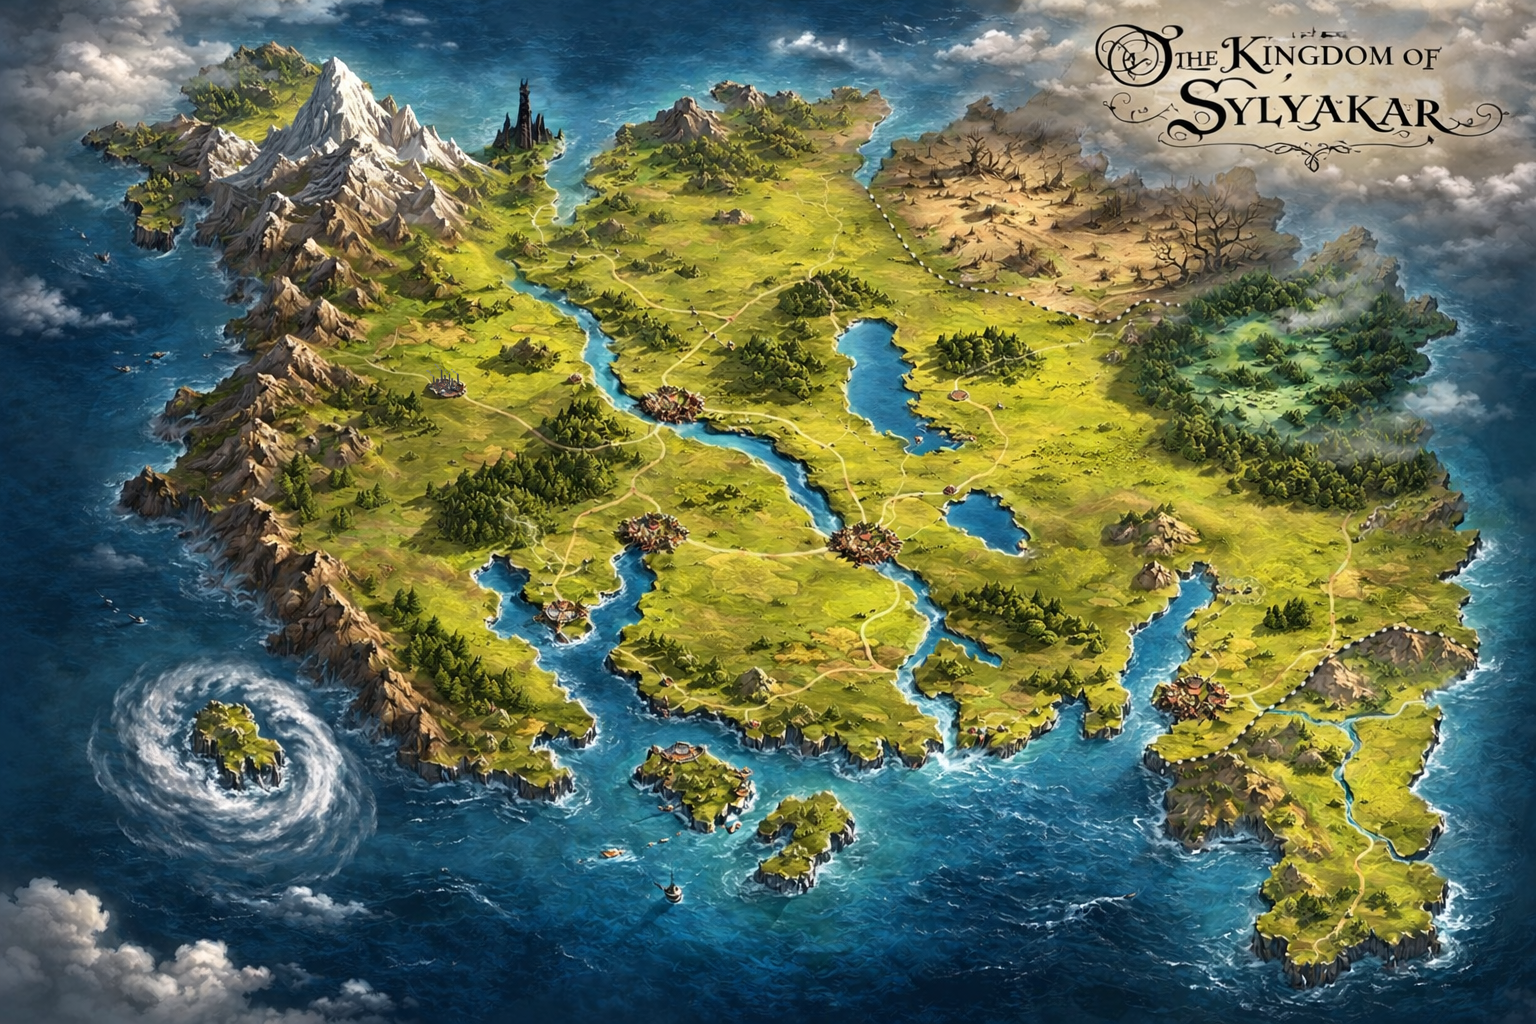
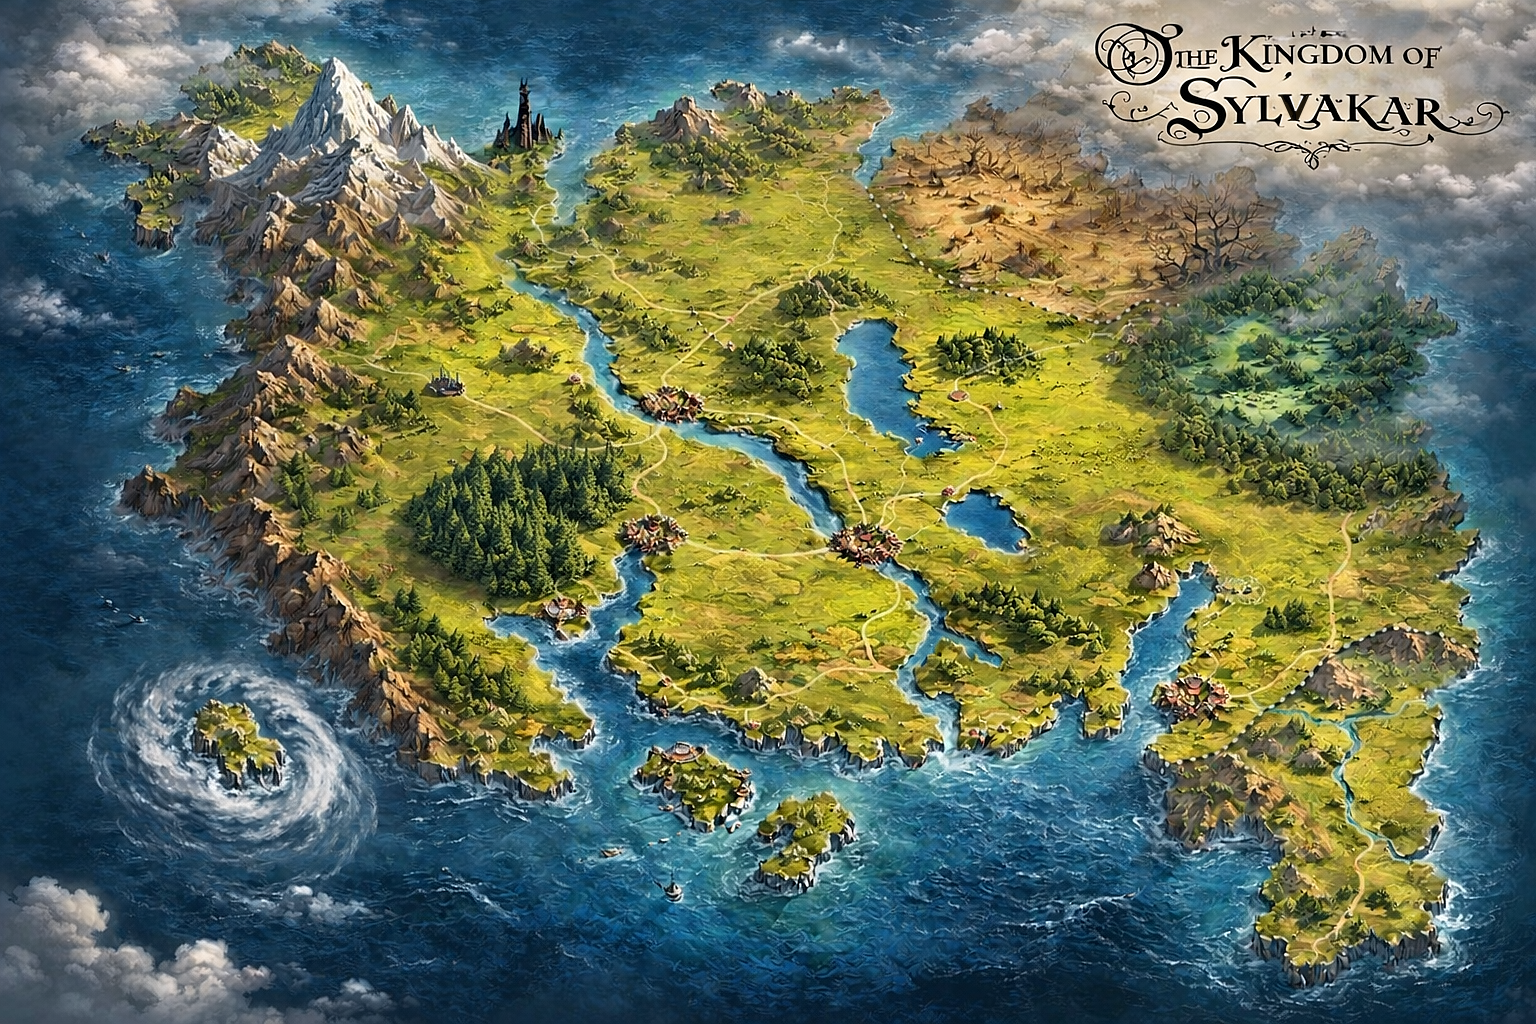
Updated locations

diff --git a/index.html b/index.html
@@ -358,85 +358,85 @@
         "name": "Dynamo",
         "category": "Cities",
         "description": "Currently the biggest clank manufacturing city. Produces both clanks and goods (ie weapons, armor, trinkets, bobbles, clothes, you name it.)",
-        "x": 479,
-        "y": 446
+        "x": 445,
+        "y": 385
       },
       {
         "name": "Vinod",
         "category": "Cities",
         "description": "Sanskrit for pleasure, happiness, diversion. Contains the largest legal brothel in the kingdom of Sylvakar, the Blooming Flower. Legal prostitution is the city's main form of economic growth, making it a very prosperous city. The owner of the largest brothel is essentially the lord over the city. Her name is Madame Resplenda. The city guard under the direct control of Madame Resplenda officially known as the Vinodi Guard are known more commonly by the locals as the \"Rose Buds\". There are other brothels besides the main one (none come close to comparing in size), but all others must be registered and pay additional \"taxes\" which go to the \"city\". The required registration has limits on size, services, etc, which ensures the Blooming Flower remains the largest and most profitable brothel. Lots of tourism due to the high demand service they provide. Located in a warmer region of the kingdom, allowing for prostitutes to comfortably display their wares year round.",
-        "x": 1110,
-        "y": 782
+        "x": 1191,
+        "y": 696
       },
       {
         "name": "To'Wrath",
         "category": "Cities",
         "description": "Stands for The Ones Who Remember All Their History. It is a lost city located somewhere in the Nether, though its exact location or its status are unknown. It is the first machine (clank city). At one point the clanks there had ascended past all known technology, and then they had vanished.",
-        "x": 1012,
-        "y": 255
+        "x": 976,
+        "y": 165
       },
       {
         "name": "Serenity",
         "category": "Cities",
         "description": "Known Faun city, considered a safe haven for the race and others that have seen persecution and prejudice from humanoids. Nestled amongst a massive outcropping of a sablewood forest.",
-        "x": 564,
-        "y": 702
+        "x": 566,
+        "y": 611
       },
       {
         "name": "Sanji",
         "category": "Cities",
         "description": "Smaller, quiet, peaceful farming town. Known for its premium quality of herbs and spice ingredients. Almost the whole town is involved in the farming process in some way. The town has a secret fighting school they have been able to hide from the rest of the world for centuries. Citizenship in the town is strict, under the guise of the town having farming trade secrets, but in reality it's to prevent the world from finding out about the secret fighting school. Every citizen eventually undergoes 3 years of training at the secret fighting school. The fighting style focuses on hand to hand combat designed to deescalate conflict in a nonlethal form (disarm, disable). There is training with various weapon types but the primary focus is hand to hand. Little authority presence due to every citizen's discipline and ability to deescalate.",
-        "x": 835,
-        "y": 620
+        "x": 864,
+        "y": 542
       },
       {
         "name": "Currington",
         "category": "Cities",
         "description": "Due to its well protected ports to and from the Aspien Sea, It is the biggest trade hub in the Kingdom of Sylvakar. Home to the Bards Guild and associated tavern, The Song Bird, The biggest in the kingdom. Due to its close proximity to Sanji, the city's brewmasters contract growers of Sanji to grow their hops and other spices for them. Known for brewing and distilling the best ales and liquors in the kingdom.",
-        "x": 634,
-        "y": 592
+        "x": 651,
+        "y": 535
       },
       {
         "name": "To'Acar",
         "category": "Cities",
         "description": "Home to a quiet hunting town with a few very small vegetable farms. Not known for much other than it's the home to the Galapas Ra'p and Rigs (brothers, of course) and Brother Fatus and his renowned steamed game dumplings. This was the start of our adventure. The players came from the town of Sanji with medicinal supplies, herbs that can't and aren't grown in To'Acar.",
-        "x": 887,
-        "y": 678
+        "x": 980,
+        "y": 607
       },
       {
         "name": "Lesbos",
         "category": "Settlements",
         "description": "The isle of Lesbos is located just off the southern shores of the mainland. No men are allowed within the settlement limits. Must be female. It is unknown what happens to men that are brave enough to enter the settlement.",
-        "x": 676,
-        "y": 845
+        "x": 695,
+        "y": 776
       },
       {
         "name": "UNAMED",
         "category": "Settlements",
         "description": "(No description provided.)",
-        "x": 250,
-        "y": 270
+        "x": 169,
+        "y": 172
       },
       {
         "name": "The Isle",
         "category": "Points Of Interest",
         "description": "Due to a perpetual storm that surrounds the island, it is inaccessible to ships, and obfuscates the view of the island when looking through a telescope. It is unknown what is causing this storm or if the island is habitable. But that doesn't stop people from trying.",
-        "x": 339,
-        "y": 814
+        "x": 236,
+        "y": 731
       },
       {
         "name": "Farrendel Tower",
         "category": "Points Of Interest",
         "description": "Massive tower located on the northern coast of the Aspien Sea. Local rumors are that there is something mystical and powerful atop of the tower, though no one has ever made it. People are terrified to even approach the tower. Lately there has been a higher number of military guardsmen around the tower, more than normal. Unlike other towers and light houses in the kingdom, Farrendel Tower is made from a strange black elderglass. A material not seen anywhere else in the kingdom.",
-        "x": 580,
-        "y": 183
+        "x": 523,
+        "y": 132
       },
       {
         "name": "The Black Marsh",
         "category": "Points Of Interest",
         "description": "(Denoted by the squiggle circle on the map.) Not much is known about the Black Marsh. What is known is that it contains HIGHLY sought after bogwood, which is some of the most sought after in the kingdom. This is due to the fact that it makes the finest magical staffs, bows, and handles for axes and swords the known world has ever known. Due to the properties of the marsh, it makes staffs highly resistant to magical backfires and stresses. It allows bows to be incredibly strong and lethal while maintaining low draw weights, making firing faster and less fatiguing. No one is sure how much bogwood is left and it's been almost impossible to get within the last century. Many have tried, and many have died. Magic doesn't seem to work when trying to retrieve it.",
-        "x": 1246,
-        "y": 431
+        "x": 1267,
+        "y": 365
       },
       {
         "name": "The Western Reaches and The Halo",
@@ -444,32 +444,20 @@
         "description": "The Western Reaches is a massive mountain ridge spanning almost the entire western coast of Sylvakar. Elevation varies but towards the north of the ridge and spanning inland is The Halo. A series of peaks that ascend to the highest point on the island. It is said that the tallest peak is so high that it is possible to commune with the gods, hence the name God's Grasp.",
         "points": [
           [
-            519,
-            301
+            185,
+            127
           ],
           [
-            318,
-            293
+            351,
+            174
           ],
           [
-            263,
-            150
+            228,
+            481
           ],
           [
-            348,
-            394
-          ],
-          [
-            298,
-            587
-          ],
-          [
-            366,
-            725
-          ],
-          [
-            464,
-            823
+            425,
+            732
           ]
         ],
         "x": 0,
@@ -479,20 +467,38 @@
         "name": "The Nether (- - - border)",
         "category": "Other Places of Note",
         "description": "Located to the North East on the island is The Nether. Essentially a no go zone, it is the equivalent to the Bermuda Triangle. Magic doesn't behave properly there. Technology doesn't behave properly there. It drives immeasurable fear into the hearts of all the denizens of the island and, as a consequence, people do not go anywhere near it. There is no need for signs or fences, as it is clearly barren and blighted forming a natural border between the two ecological zones. Nestled somewhere within the Nether is To'Wrath, the first clank city. Its exact location is unknown and lost to time.",
-        "x": 0,
-        "y": 0
+        "x": 1045,
+        "y": 217
       },
       {
         "name": "Lake Destined",
         "category": "Other Places of Note",
         "description": "Lake Destined (pronounced dest-eend) is the largest inland lake on the continent. Said to have an island somewhere in its waters. Though there is no official record or historical documentation of any islands in the lake or any magical features about the lake. But when people sail the lake they often go missing for days, then are eventually found somewhere on shore. Those who return (not all do, but most do) appear healthy but seem off to those that know them. Close friends and loved ones say the person's personality has changed, making them just generally complacent. They don't remember certain things that they should about their past, and when reminded they pretend they simply forgot (especially with what happened on the lake, no recollection there from anyone). Some loved ones have said they've found their returned just standing by a window, looking out and mumbling to themselves, sometimes for hours until they are disrupted by someone. Some have been severely injured/wounded well after the event and don't seem to register the pain as a normal person would (some claim their returned didn't even notice they were hurt until someone pointed it out). Anyone looking directly into the eyes of a returned say they almost get a feeling of nausea, and can't hold the void filled stare for long.",
-        "x": 0,
-        "y": 0
+        "x": 882,
+        "y": 390
       },
       {
         "name": "The Andel Line (··· border)",
         "category": "Other Places of Note",
         "description": "The Andel Line is located to the south east of the island and represents a temporary border between two of the wealthiest and most influential noble families (besides the King's) locked in conflict. Though mostly a cold conflict and fraught with standoffs, it has on occasion erupted in full on wars between the two families. While formidable forces on their own, they are no match for the Crown's forces, which regularly have to do a show of force to calm the temperatures while negotiations can be held until the next inevitable flare up. The Emberlanes, led by Rogan Emberlane, believe the Blackreeds have taken their ancestral grounds awarded to them by the first king of Sylvakar, Etrin the Guileful. The Blackreeds headed by Evlyn Blackreed maintain that the Blackreeds predate them by centuries and that it has been their lands all along. Some of the population in the surrounding area believe that this isn't really about ancestral grounds, but stemmed from a lovers quarrel, which caused the Emberlanes to break from the Blackreeds.",
+        "points": [
+          [
+            1166,
+            770
+          ],
+          [
+            1236,
+            743
+          ],
+          [
+            1384,
+            629
+          ],
+          [
+            1475,
+            652
+          ]
+        ],
         "x": 0,
         "y": 0
       }

diff --git a/locations.md b/locations.md
@@ -17,37 +17,37 @@ Positions are **pixel coordinates** from the map image (same as opening Map.png 
 ## Cities (⭘)
 
 ### Dynamo
-Position: 479, 446
+Position: 445, 385
 
 Currently the biggest clank manufacturing city. Produces both clanks and goods (ie weapons, armor, trinkets, bobbles, clothes, you name it.)
 
 ### Vinod
-Position: 1110, 782
+Position: 1191, 696
 
 Sanskrit for pleasure, happiness, diversion. Contains the largest legal brothel in the kingdom of Sylvakar, the Blooming Flower. Legal prostitution is the city's main form of economic growth, making it a very prosperous city. The owner of the largest brothel is essentially the lord over the city. Her name is Madame Resplenda. The city guard under the direct control of Madame Resplenda officially known as the Vinodi Guard are known more commonly by the locals as the "Rose Buds". There are other brothels besides the main one (none come close to comparing in size), but all others must be registered and pay additional "taxes" which go to the "city". The required registration has limits on size, services, etc, which ensures the Blooming Flower remains the largest and most profitable brothel. Lots of tourism due to the high demand service they provide. Located in a warmer region of the kingdom, allowing for prostitutes to comfortably display their wares year round.
 
 ### To'Wrath
-Position: 1012, 255
+Position: 976, 165
 
 Stands for The Ones Who Remember All Their History. It is a lost city located somewhere in the Nether, though its exact location or its status are unknown. It is the first machine (clank city). At one point the clanks there had ascended past all known technology, and then they had vanished.
 
 ### Serenity
-Position: 564, 702
+Position: 566, 611
 
 Known Faun city, considered a safe haven for the race and others that have seen persecution and prejudice from humanoids. Nestled amongst a massive outcropping of a sablewood forest.
 
 ### Sanji
-Position: 835, 620
+Position: 864, 542
 
 Smaller, quiet, peaceful farming town. Known for its premium quality of herbs and spice ingredients. Almost the whole town is involved in the farming process in some way. The town has a secret fighting school they have been able to hide from the rest of the world for centuries. Citizenship in the town is strict, under the guise of the town having farming trade secrets, but in reality it's to prevent the world from finding out about the secret fighting school. Every citizen eventually undergoes 3 years of training at the secret fighting school. The fighting style focuses on hand to hand combat designed to deescalate conflict in a nonlethal form (disarm, disable). There is training with various weapon types but the primary focus is hand to hand. Little authority presence due to every citizen's discipline and ability to deescalate.
 
 ### Currington
-Position: 634, 592
+Position: 651, 535
 
 Due to its well protected ports to and from the Aspien Sea, It is the biggest trade hub in the Kingdom of Sylvakar. Home to the Bards Guild and associated tavern, The Song Bird, The biggest in the kingdom. Due to its close proximity to Sanji, the city's brewmasters contract growers of Sanji to grow their hops and other spices for them. Known for brewing and distilling the best ales and liquors in the kingdom.
 
 ### To'Acar
-Position: 887, 678
+Position: 980, 607
 
 Home to a quiet hunting town with a few very small vegetable farms. Not known for much other than it's the home to the Galapas Ra'p and Rigs (brothers, of course) and Brother Fatus and his renowned steamed game dumplings. This was the start of our adventure. The players came from the town of Sanji with medicinal supplies, herbs that can't and aren't grown in To'Acar.
 
@@ -56,12 +56,12 @@ Home to a quiet hunting town with a few very small vegetable farms. Not known fo
 ## Settlements (🛡)
 
 ### Lesbos
-Position: 676, 845
+Position: 695, 776
 
 The isle of Lesbos is located just off the southern shores of the mainland. No men are allowed within the settlement limits. Must be female. It is unknown what happens to men that are brave enough to enter the settlement.
 
 ### UNAMED
-Position: 250, 270
+Position: 169, 172
 
 (No description provided.)
 
@@ -70,17 +70,17 @@ Position: 250, 270
 ## Points Of Interest (♡)
 
 ### The Isle
-Position: 339, 814
+Position: 236, 731
 
 Due to a perpetual storm that surrounds the island, it is inaccessible to ships, and obfuscates the view of the island when looking through a telescope. It is unknown what is causing this storm or if the island is habitable. But that doesn't stop people from trying.
 
 ### Farrendel Tower
-Position: 580, 183
+Position: 523, 132
 
 Massive tower located on the northern coast of the Aspien Sea. Local rumors are that there is something mystical and powerful atop of the tower, though no one has ever made it. People are terrified to even approach the tower. Lately there has been a higher number of military guardsmen around the tower, more than normal. Unlike other towers and light houses in the kingdom, Farrendel Tower is made from a strange black elderglass. A material not seen anywhere else in the kingdom.
 
 ### The Black Marsh
-Position: 1246, 431
+Position: 1267, 365
 
 (Denoted by the squiggle circle on the map.) Not much is known about the Black Marsh. What is known is that it contains HIGHLY sought after bogwood, which is some of the most sought after in the kingdom. This is due to the fact that it makes the finest magical staffs, bows, and handles for axes and swords the known world has ever known. Due to the properties of the marsh, it makes staffs highly resistant to magical backfires and stresses. It allows bows to be incredibly strong and lethal while maintaining low draw weights, making firing faster and less fatiguing. No one is sure how much bogwood is left and it's been almost impossible to get within the last century. Many have tried, and many have died. Magic doesn't seem to work when trying to retrieve it.
 
@@ -89,27 +89,27 @@ Position: 1246, 431
 ## Other Places of Note
 
 ### The Western Reaches and The Halo
-Position: 519, 301
-Position: 318, 293
-Position: 263, 150
-Position: 348, 394
-Position: 298, 587
-Position: 366, 725
-Position: 464, 823
+Position: 185, 127
+Position: 351, 174
+Position: 228, 481
+Position: 425, 732
 
 The Western Reaches is a massive mountain ridge spanning almost the entire western coast of Sylvakar. Elevation varies but towards the north of the ridge and spanning inland is The Halo. A series of peaks that ascend to the highest point on the island. It is said that the tallest peak is so high that it is possible to commune with the gods, hence the name God's Grasp.
 
 ### The Nether (- - - border)
-Position: 0, 0
+Position: 1045, 217
 
 Located to the North East on the island is The Nether. Essentially a no go zone, it is the equivalent to the Bermuda Triangle. Magic doesn't behave properly there. Technology doesn't behave properly there. It drives immeasurable fear into the hearts of all the denizens of the island and, as a consequence, people do not go anywhere near it. There is no need for signs or fences, as it is clearly barren and blighted forming a natural border between the two ecological zones. Nestled somewhere within the Nether is To'Wrath, the first clank city. Its exact location is unknown and lost to time.
 
 ### Lake Destined
-Position: 0, 0
+Position: 882, 390
 
 Lake Destined (pronounced dest-eend) is the largest inland lake on the continent. Said to have an island somewhere in its waters. Though there is no official record or historical documentation of any islands in the lake or any magical features about the lake. But when people sail the lake they often go missing for days, then are eventually found somewhere on shore. Those who return (not all do, but most do) appear healthy but seem off to those that know them. Close friends and loved ones say the person's personality has changed, making them just generally complacent. They don't remember certain things that they should about their past, and when reminded they pretend they simply forgot (especially with what happened on the lake, no recollection there from anyone). Some loved ones have said they've found their returned just standing by a window, looking out and mumbling to themselves, sometimes for hours until they are disrupted by someone. Some have been severely injured/wounded well after the event and don't seem to register the pain as a normal person would (some claim their returned didn't even notice they were hurt until someone pointed it out). Anyone looking directly into the eyes of a returned say they almost get a feeling of nausea, and can't hold the void filled stare for long.
 
 ### The Andel Line (··· border)
-Position: 0, 0
+Position: 1166, 770
+Position: 1236, 743
+Position: 1384, 629
+Position: 1475, 652
 
 The Andel Line is located to the south east of the island and represents a temporary border between two of the wealthiest and most influential noble families (besides the King's) locked in conflict. Though mostly a cold conflict and fraught with standoffs, it has on occasion erupted in full on wars between the two families. While formidable forces on their own, they are no match for the Crown's forces, which regularly have to do a show of force to calm the temperatures while negotiations can be held until the next inevitable flare up. The Emberlanes, led by Rogan Emberlane, believe the Blackreeds have taken their ancestral grounds awarded to them by the first king of Sylvakar, Etrin the Guileful. The Blackreeds headed by Evlyn Blackreed maintain that the Blackreeds predate them by centuries and that it has been their lands all along. Some of the population in the surrounding area believe that this isn't really about ancestral grounds, but stemmed from a lovers quarrel, which caused the Emberlanes to break from the Blackreeds.
